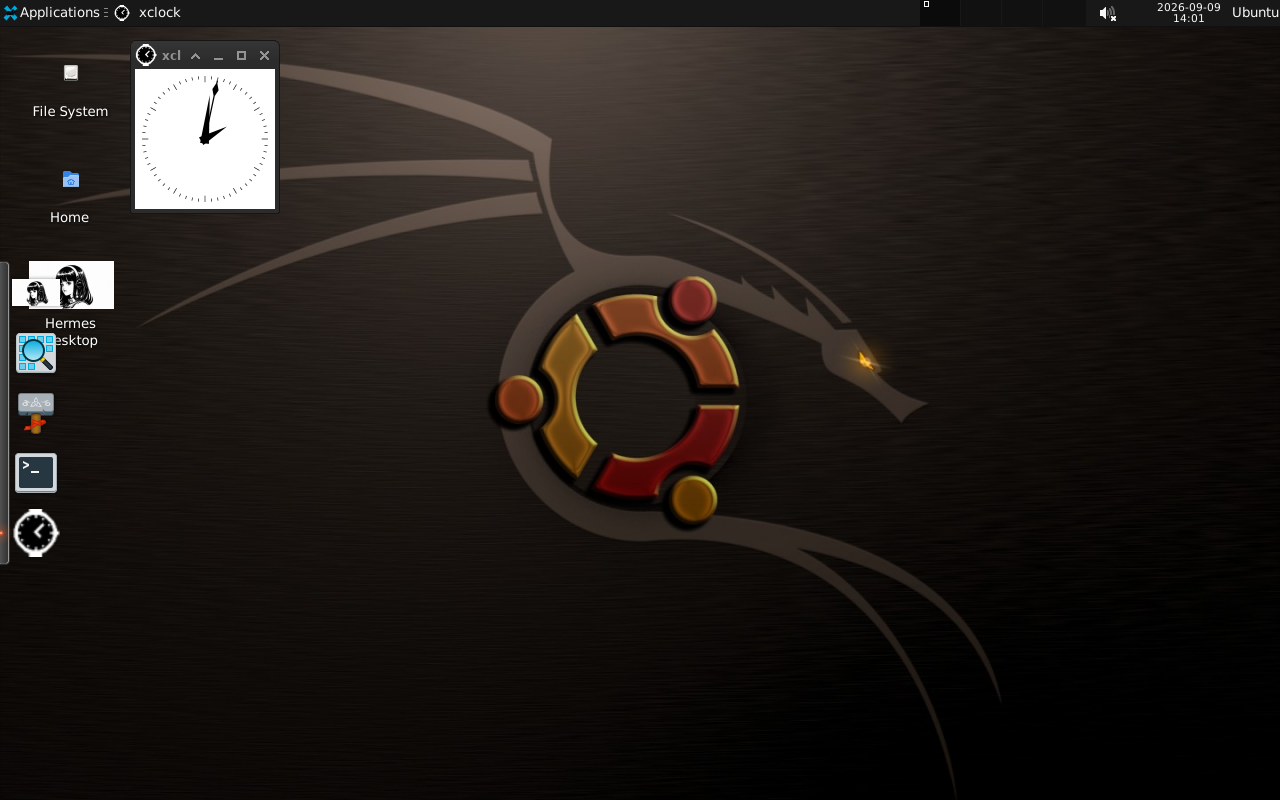
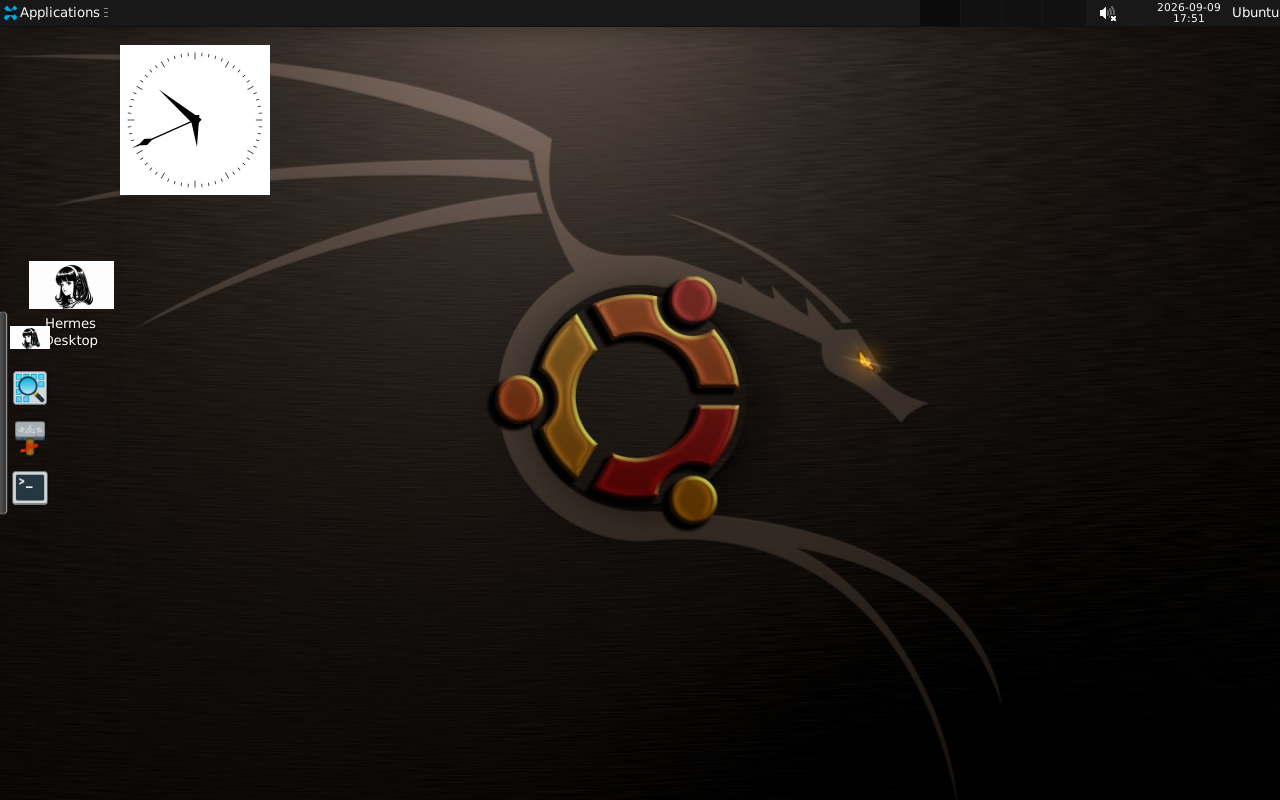
Refresh README preview and verification record from the live RDP run
preview.png is now the desktop captured through the xfreerdp session that logged in as
ubuntu on the final image (frameless clock widget, single top panel). The verification
table records what was actually run today, including the root check inside the session
and the 0-upgraded package state, and the Hermes Desktop paragraph no longer claims the
XFCE edition ships the anime wallpaper.

diff --git a/README.md b/README.md
@@ -5,9 +5,13 @@ tooling, and the upstream Hermes AI agent in the terminal.
 
 ## Desktop preview
 
-What you see when you connect over RDP (real `xfreerdp` session, 1280x800):
+What a user sees after connecting over RDP, captured in a real `xfreerdp` session logged in as
+`ubuntu` (1280x800, first login, nothing hand-edited afterwards):
 
-![Ubuntu XRDP desktop: classic dark wallpaper, top panel, left Plank dock, analog clock, Hermes Desktop icon](assets/preview.png)
+![Ubuntu XRDP desktop: classic dark wallpaper, single top panel, left Plank dock, frameless analog clock widget, Hermes Desktop icon on the desktop](assets/preview.png)
+
+The layout is the reference look: analog clock widget on the wallpaper, Plank dock with Hermes
+Desktop, file manager, terminal and app finder on the left, one top panel (no bottom bar).
 
 ## Prerequisites
 
@@ -165,7 +169,7 @@ session initialises the XFCE profile and can take a few seconds.
 ## Known limitations
 
 - The TLS certificate is self-signed, so RDP clients warn on first connect.
-- The image is around 6 GB; it bundles a desktop environment and a full build toolchain.
+- The image is around 7 GB; it bundles a desktop environment and a full build toolchain.
 - No GPU acceleration. CUDA workloads need extra configuration.
 - The `gh` CLI is not bundled, because it requires a third-party apt repository. Install
   it on demand if you need it.
@@ -185,31 +189,36 @@ Hermes integration. It does not bundle Kali/BlackArch or bulk security tooling.
 
 ## Verification status
 
-Verified on a 4 vCPU / 16 GB GitHub Codespace with Docker 29.7.2.
+Verified on a GitHub Codespace (`standardLinux32gb`: 4 vCPU, 16 GB RAM, root through
+passwordless sudo) with Docker 29.7.2, building `main` at 4f7828a into an empty image store.
 
 | Check | Result |
 | --- | --- |
-| `docker build --no-cache` | PASS |
-| GitHub Actions CI build | PASS |
-| Container starts and stays up | PASS |
-| Healthcheck (`xrdp` + `xrdp-sesman`) | PASS - reports `healthy` |
-| XRDP listening on TCP 3389 | PASS |
-| RDP negotiation + TLS handshake | PASS - `PROTOCOL_SSL`, TLSv1.3 |
-| Real RDP client session (`xfreerdp`) | PASS - logged in as ubuntu, XFCE desktop rendered and captured |
-| XFCE session (headless Xvfb) | PASS - `xfce4-session`, `xfwm4`, `xfce4-panel` |
-| `ai`, `hermes`, `hermes-ai`, `hermes-agent` | PASS - all launch the real runtime |
-| `hermes --version` | PASS - Hermes Agent v0.21.1 |
-| First-run detection (`hermes status`, `hermes doctor`) | PASS |
-| Secret masking | PASS - masked in output, absent from logs and image layers |
-| Persistence across container recreation (volume) | PASS |
-| `docker restart` | PASS - returns to `healthy` |
-| Secret scan (repository + image layers) | PASS - no credentials found |
+| `docker build` from scratch | PASS - exit 0, image 7.14 GB |
+| GitHub Actions CI build | PASS - run #17 on the same commit |
+| Container starts and stays up | PASS - `healthy`, restart count 0 |
+| Healthcheck (`xrdp` + `xrdp-sesman`) | PASS - both processes running, TCP 3389 listening |
+| Real RDP login as `ubuntu` | PASS - username and password typed into the XRDP login window through an `xfreerdp` client session; server log: `login successful for user ubuntu on display 10` |
+| XFCE session after login | PASS - session, window manager, panel and Plank all start; no black screen, no disconnect |
+| Desktop layout | PASS - single top panel, left Plank dock with Hermes Desktop / files / terminal / app finder, frameless analog clock widget, no home/filesystem/trash icons |
+| Root access for the RDP user | PASS - `sudo -i` from that session gives `uid=0(root)`; `sudo -l` shows `(ALL) NOPASSWD: ALL`, `/etc/sudoers.d/ubuntu` is `0440` |
+| Image is already patched | PASS - `apt-get update && apt-get -s upgrade` inside the container reports `0 upgraded`; base is Ubuntu 24.04.5 LTS |
+| Hermes CLI | PASS - `hermes --version` -> `Hermes Agent v0.21.1 (2026.9.7)`; `ai` opens the real agent prompt (19 tools, skill list, `/help`) |
+| Hermes Desktop app | PASS - `/usr/local/bin/hermes-desktop-launch` opens the app window inside the RDP session (`Web UI v0.6.7`) |
+| First-run state | PASS - `hermes status` and `hermes doctor` run; no provider configured; `~/.hermes/.env` is `600` and owned by `ubuntu`, never baked into an image layer |
+| Persistence (the `-v ...:/home/ubuntu` volume) | PASS - a file written in the session survived `docker rm` plus a fresh `docker run` on the same volume |
+| `docker restart` | PASS - back to `healthy`, 3389 listening, RDP reconnects to the session |
+| Secret scan (repo, image history, image env) | PASS - no `ghp_`, token or password values found |
 
-Not verified: a live model-provider request, which needs your own credentials.
+Not verified: a live request to a model provider - that needs your own API key (`hermes setup`).
+`hermes doctor` also reports npm advisories inside the upstream Hermes workspaces; those belong
+to the upstream install, not to this image.
 
 ## Hermes Desktop (GUI)
 
-Bundles the Electron **Hermes Desktop** app (fork: `jjkh1673-tech/hermes-desktop`, upstream `sir1st/hermes-desktop`)
-with a desktop launcher icon (image-2). The CLI agent remains available as `hermes`.
-The desktop ships a left-side Plank dock, an analog clock widget, and the anime wallpaper (image-1)
-to match the reference look across both repos.
+Bundles the Electron **Hermes Desktop** app (fork: `jjkh1673-tech/hermes-desktop`, upstream
+`sir1st/hermes-desktop`): launcher on the desktop, icon in the Plank dock, and the black-and-white
+Hermes artwork as its application icon. The CLI agent stays available as `hermes` / `ai`.
+Both editions share the same dock, clock widget and icon styling; the wallpaper is the only thing
+that differs - this XFCE edition keeps the classic dark Ubuntu wallpaper, and the MATE edition
+(ubuntu-mate-xrdp) uses the blue anime wallpaper.
